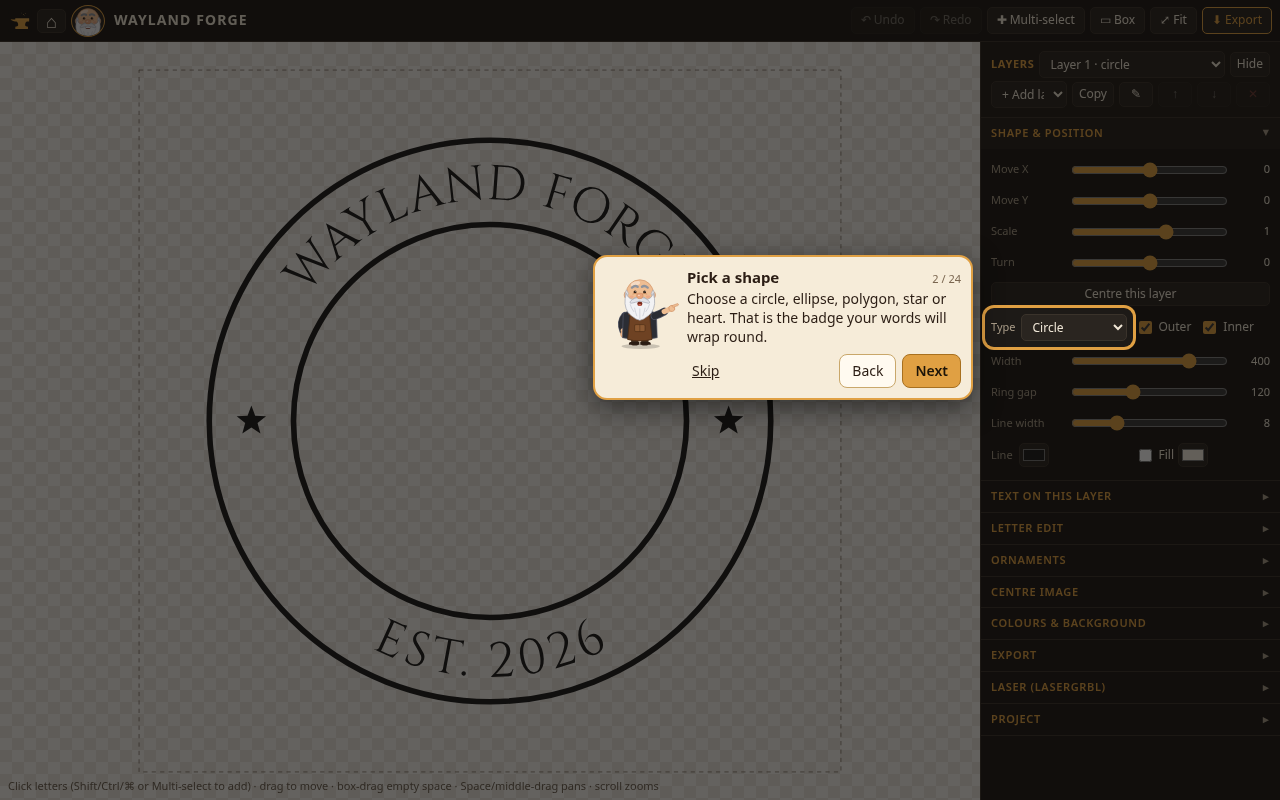
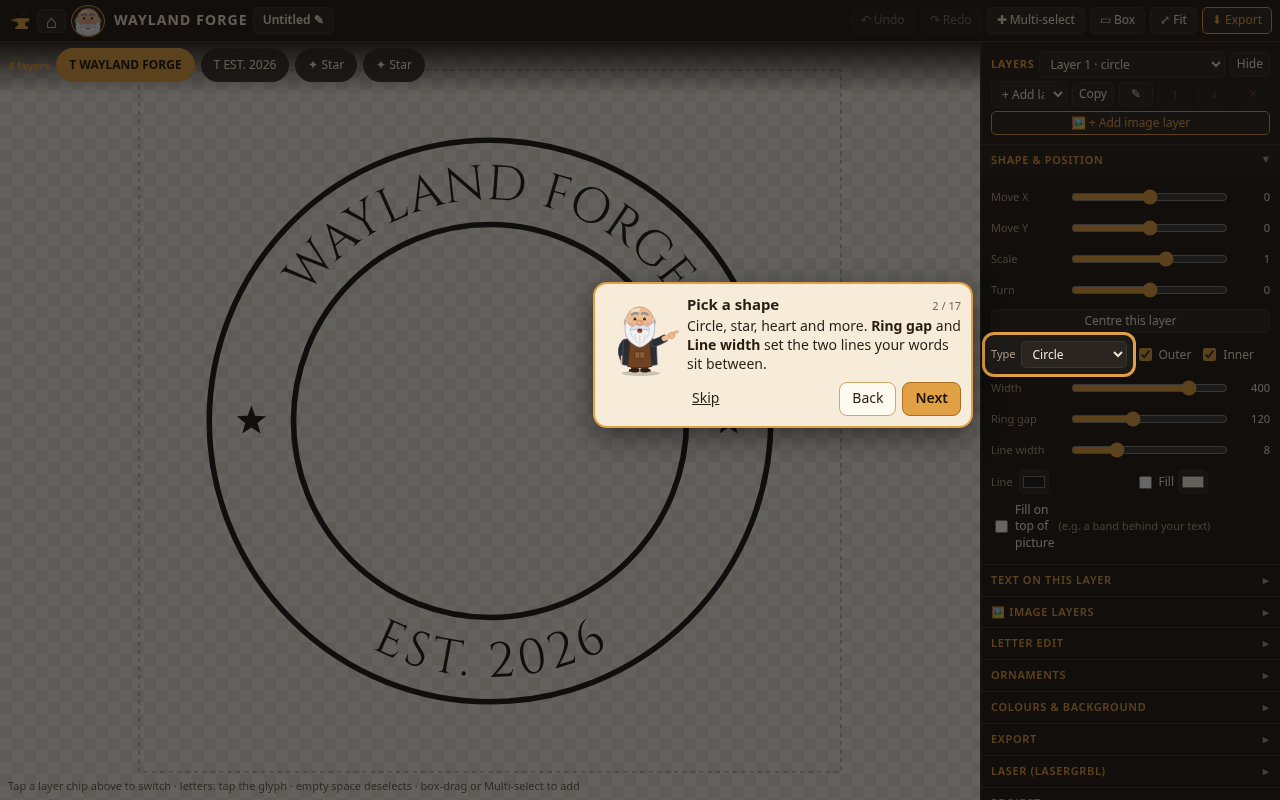
v45: shorter clearer tutorial (17 steps), neutral demo badge HAPPY BIRTHDAY / MAX, no personal names; laser unchanged

diff --git a/js/tour.js b/js/tour.js
@@ -16,30 +16,23 @@
   };
   // ---- the steps (plain English, short) ----
   const STEPS = [
-    { topic: 'start', pose: 'wave', title: "Hi, I'm Wayland!", text: "I'm the smith of this forge. I'll show you round in a minute or two. Tap <b>Next</b> to go on, or <b>Skip</b> any time." },
-    { topic: 'shape', sec: 'sec-shape', t: [lbl('[data-b="base.shape"]')], pose: 'point', title: 'Pick a shape', text: 'Choose a circle, ellipse, polygon, star or heart. That is the badge your words will wrap round.' },
-    { topic: 'shape', sec: 'sec-shape', t: [lbl('[data-b="base.gap"]')], pose: 'point', title: 'Ring and lines', text: '<b>Ring gap</b> is the space between the two lines where text sits. <b>Line width</b> makes the lines thicker or thinner (0 hides them).' },
-    { topic: 'layers', t: ['#layerBar'], pose: 'point', title: 'Layers: more shapes', text: 'Want a second badge shape? Use <b>+ Add layer</b> and pick a shape. Each layer has its own lines and text. Pick the layer here (or tap its line on the badge), then use <b>Move X/Y</b>, <b>Scale</b> and <b>Turn</b> in Shape &amp; position. Copy duplicates, ✎ renames, ↑↓ change which is in front, Hide hides it.' },
-    { topic: 'text', sec: 'sec-text', t: [lbl('[data-b="layer.text"]'), '#addLayer'], pose: 'point', title: 'Type your words', text: 'Type in the <b>Text</b> box and it bends round the badge straight away.' },
-    { topic: 'text', sec: 'sec-text', t: [lbl('[data-b="layer.side"]'), '#addLayer'], pose: 'point', title: 'Top and bottom text', text: 'Each line of text is a <b>layer</b>. Set <b>Side</b> to Top or Bottom. <b>+ Add</b> makes a new layer; <b>Duplicate to opposite side</b> copies it underneath.' },
-    { topic: 'text', sec: 'sec-text', t: [lbl('#fontSel'), '#addLayer'], pose: 'point', title: 'Fonts', text: 'Pick a <b>Font</b> and <b>Colour</b> for this layer. <b>Sits</b> puts the text between the lines, outside or inside.' },
-    { topic: 'text', sec: 'sec-text', t: [lbl('[data-b="layer.size"]'), '#addLayer'], pose: 'point', title: 'Size and spacing', text: '<b>Size</b> makes letters bigger, <b>Rotate</b> slides them round, <b>Spacing</b> spreads them out and <b>Lift</b> moves them in or out.' },
-    { topic: 'letters', t: [lettersBox, '#stage'], pose: 'point', try: 'letters', title: 'Try it: tap a letter', text: 'Tap (or click) any single letter on the badge to select it, then drag it to move it. Have a go, or just tap Next.' },
-    { topic: 'letters', t: ['#multiBtn'], pose: 'point', title: 'Select several letters', text: 'Turn on <b>Multi-select</b>, then each tap adds or removes a letter, even ones far apart. On a computer you can also hold Shift or Ctrl while clicking.' },
-    { topic: 'letters', sec: 'sec-letter', t: ['#multiBtn2'], pose: 'point', title: 'Letter edit', text: 'Here you can rotate, resize or nudge the selected letters with the arrows. <b>Reset</b> puts them back.' },
-    { topic: 'image', sec: 'sec-img', t: ['#sec-img .addpic2'], pose: 'point', title: 'Image layers', text: 'Tap <b>+ Add image layer</b> to add a picture, logo or map. Each image layer has its own Upload, Size, Style and Placement, just like the other layers.' },
-    { topic: 'image', sec: 'sec-img', t: ['#fitImg', '#sec-img .filebtn'], pose: 'hammer', title: 'Fit inside or Fill & clip', text: () => ((WF.state.images || []).some(i => i.src) ? '' : 'Once you have a picture you get these: ') + '<b>Fit inside line</b> shrinks the whole picture to sit inside the inner line. <b>Fill &amp; clip</b> fills the shape and trims the edges neatly.' },
-    { topic: 'image', sec: 'sec-img', t: [lbl('[data-b="img.mode"]'), '#sec-img .filebtn'], pose: 'hammer', title: 'Silhouette and vector trace', text: '<b>Style</b> can turn a photo into a solid <b>Silhouette</b>, or a <b>Vector trace</b> made of real paths that are great for cutting machines and print.' },
-    { topic: 'decor', sec: 'sec-orn', t: ['#addStar'], pose: 'point', title: 'Ornaments', text: 'Add stars, dots, holly or notes. Move them with the <b>Horizontal</b> and <b>Vertical</b> sliders, or tick <b>Follow path</b> to slide them round a line. <b>Mirror copy</b> makes a linked twin that moves with it (tap <b>Unlink</b> to separate).' },
-    { topic: 'decor', sec: 'sec-col', t: ['#sec-col > .body'], pose: 'point', title: 'Colours and background', text: 'Choose a see-through or solid background. Tap a swatch to colour the selected text or ornament, and save your own colours.' },
-    { topic: 'finish', t: ['#undoBtn'], pose: 'point', title: 'Oops? Undo!', text: 'Made a mistake? <b>Undo</b> steps back, <b>Redo</b> steps forward again. Nothing is lost.' },
-    { topic: 'finish', sec: 'sec-export', t: [lbl('#exPreset')], pose: 'point', title: 'Export for Printify', text: 'For Printify choose the <b>Printify 4500px</b> preset: it makes a big transparent PNG ready to upload.' },
-    { topic: 'finish', sec: 'sec-export', t: [lbl('#exFmt')], pose: 'point', title: 'PDF or SVG for print', text: 'For a printer or a cutting machine pick <b>PDF vector</b> or <b>SVG vector</b>: sharp at any size. Then tap <b>Export</b>.' },
-    { topic: 'laser', sec: 'sec-laser', t: ['#laserList'], pose: 'point', title: 'Laser jobs', text: 'Got a laser? Give each part a job here: <b>Etch</b> to engrave it, <b>Cut inside</b> or <b>Cut outside edge</b> to cut it, or <b>Image</b> for a photo. Tick <b>Show cuts</b> to see red and blue cut lines.' },
-    { topic: 'laser', sec: 'sec-laser', t: ['#laserBtn'], pose: 'point', title: 'Laser pack', text: 'Type the real size in mm, then tap <b>Download all steps</b>. You get one numbered file per step (e.g. IggyRocky 1 photo, 2 etch…) in your Downloads folder. In LaserGRBL use <b>File → Open File</b>, click Downloads, and run them one at a time in number order.' },
-    { topic: 'finish', sec: 'sec-proj', t: ['#saveToProjects'], pose: 'point', title: 'Save your project', text: 'Your work saves itself in this browser. <b>Save to Projects</b> gives it a name so you can open it again from <b>⌂ Home › Projects</b>. <b>Download file</b> makes a copy for another device.' },
-    { topic: 'install', t: ['#installBtn', '#helpBtn'], pose: 'thumbs', title: 'Install the app', text: () => vis($('installBtn')) ? 'Tap <b>Install</b> to put Wayland Forge on your home screen or desktop. It works offline too.' : 'To install: in Chrome tap the <b>⋮</b> menu and choose <b>Install app</b> (or <b>Add to Home screen</b>). On a computer, use the install icon in the address bar.' },
-    { topic: 'end', t: ['#helpBtn'], pose: 'thumbs', title: "That's the lot!", text: () => (vis($('helpBtn')) ? 'Tap my face up here any time to see the tour again or learn one topic.' : 'Open <b>Project → Help &amp; tutorial</b> any time to see the tour again.') + ' Happy forging!' },
+    { topic: 'start', pose: 'wave', title: "Hi, I'm Wayland!", text: "A quick tour, about a minute. Tap <b>Next</b> to go on, <b>Back</b> to go back, or <b>Skip</b> to leave any time." },
+    { topic: 'shape', sec: 'sec-shape', t: [lbl('[data-b="base.shape"]')], pose: 'point', title: 'Pick a shape', text: 'Circle, star, heart and more. <b>Ring gap</b> and <b>Line width</b> set the two lines your words sit between.' },
+    { topic: 'layers', t: ['#layerBar'], pose: 'point', title: 'Layers', text: 'Each shape, text, ornament and image is a layer. Tap one here to work on it. <b>+ Add layer</b> adds another shape.' },
+    { topic: 'text', sec: 'sec-text', t: [lbl('[data-b="layer.text"]'), '#addLayer'], pose: 'point', title: 'Type your words', text: 'Type in the <b>Text</b> box and it bends round the badge. <b>Side</b> puts it on the top or bottom.' },
+    { topic: 'text', sec: 'sec-text', t: [lbl('#fontSel'), '#addLayer'], pose: 'point', title: 'Font and size', text: 'Pick a <b>Font</b> and <b>Colour</b>. Below, <b>Size</b>, <b>Spacing</b> and <b>Rotate</b> fine-tune the letters.' },
+    { topic: 'letters', t: [lettersBox, '#stage'], pose: 'point', try: 'letters', title: 'Try it: tap a letter', text: 'Tap one letter on the badge to select it, then drag to move it. Or just tap Next.' },
+    { topic: 'letters', t: ['#multiBtn'], pose: 'point', title: 'Several letters', text: '<b>Multi-select</b> lets each tap add or remove a letter. <b>Letter edit</b> then rotates, resizes or nudges them; <b>Reset</b> puts them back.' },
+    { topic: 'image', sec: 'sec-img', t: ['#sec-img .addpic2'], pose: 'point', title: 'Add a picture', text: 'Tap <b>+ Add image layer</b> for a photo, logo or map.' },
+    { topic: 'image', sec: 'sec-img', t: ['#fitImg', '#sec-img .filebtn', '#sec-img .addpic2'], pose: 'hammer', title: 'Fit and style', text: '<b>Fit inside line</b> or <b>Fill &amp; clip</b> places it neatly. <b>Style</b> can make a <b>Silhouette</b> or <b>Vector trace</b>.' },
+    { topic: 'decor', sec: 'sec-orn', t: ['#addStar'], pose: 'point', title: 'Ornaments and colour', text: 'Add stars, dots, holly or notes, then move them with the sliders. The <b>Colours</b> section sets the background and swatches.' },
+    { topic: 'finish', t: ['#undoBtn'], pose: 'point', title: 'Undo', text: 'Made a mistake? <b>Undo</b> steps back, <b>Redo</b> steps forward.' },
+    { topic: 'finish', sec: 'sec-export', t: [lbl('#exPreset')], pose: 'point', title: 'Export', text: '<b>Printify 4500px</b> makes a big transparent PNG. For print or cutting machines pick <b>PDF</b> or <b>SVG</b>. Then tap <b>Export</b>.' },
+    { topic: 'laser', sec: 'sec-laser', t: ['#laserList'], pose: 'point', title: 'Laser jobs', text: 'Give each part a job: <b>Etch</b>, <b>Cut inside</b>, <b>Cut outside edge</b> or <b>Image</b>. <b>Show cuts</b> draws the cut lines.' },
+    { topic: 'laser', sec: 'sec-laser', t: ['#laserBtn'], pose: 'point', title: 'Laser files', text: 'Type the real size in mm and tap <b>Download all steps</b>. You get numbered files (e.g. <i>Max 1 photo</i>, <i>Max 2 etch</i>). Open them in LaserGRBL in number order.' },
+    { topic: 'finish', sec: 'sec-proj', t: ['#saveToProjects'], pose: 'point', title: 'Save', text: '<b>Save to Projects</b> keeps it for <b>⌂ Home › Projects</b>. <b>Download file</b> makes a copy for another device.' },
+    { topic: 'install', t: ['#installBtn', '#helpBtn'], pose: 'thumbs', title: 'Install the app', text: () => vis($('installBtn')) ? 'Tap <b>Install</b> to put Wayland Forge on your home screen. It works offline too.' : 'In Chrome tap <b>⋮</b> and choose <b>Install app</b> (or <b>Add to Home screen</b>).' },
+    { topic: 'end', t: ['#helpBtn'], pose: 'thumbs', title: "All done!", text: () => (vis($('helpBtn')) ? 'Tap my face up top any time to replay the tour or pick a topic.' : 'Open <b>Project → Help &amp; tutorial</b> to replay the tour.') + ' Happy forging!' },
   ];
   const TOPICS = [['shape', 'Shapes and lines'], ['layers', 'Layers (more shapes)'], ['text', 'Typing text, fonts and size'], ['letters', 'Selecting and moving letters'], ['image', 'Image layers, fit and trace'], ['decor', 'Ornaments and colours'], ['finish', 'Undo, export and save'], ['laser', 'Laser cutting and etching'], ['install', 'Installing the app']];
   // ---- DOM ----
@@ -107,7 +100,7 @@
   function openCard(kind) {
     const topics = TOPICS.map(([k, n]) => `<button data-topic="${k}">${n}</button>`).join('');
     card.innerHTML = `<div class="sm">${smith(kind === 'welcome' ? 'wave' : 'hammer')}</div><div class="tx">` + (kind === 'welcome'
-      ? `<b>Hi, I'm Wayland, the blacksmith!</b><p>New to the forge? Want a quick tour? It takes about two minutes.</p>
+      ? `<b>Hi, I'm Wayland, the blacksmith!</b><p>New to the forge? Want a quick tour? It takes about a minute.</p>
          <div class="row"><button class="accent" data-a="tour">Yes, show me round</button><button data-a="topics">Pick a topic</button><button data-a="close">Not now</button></div>
          <label class="chk"><input type="checkbox" data-a="never">Don't show this again</label>`
       : kind === 'topics' ? `<b>What would you like to learn?</b><div class="topics">${topics}</div><div class="row"><button data-a="tour" class="accent">Whole tour</button><button data-a="close">Close</button></div>`

diff --git a/app.js b/app.js
@@ -779,7 +779,7 @@ $('homeBack').onclick = () => homeView('main');
   const b = e.target.closest('[data-rk]'); if (!b) return;
   e.preventDefault(); selectRail(b.dataset.rk, b.dataset.rid);
 });
-$('homeTour').onclick = () => { if (homeOpen && !$('homeTour').dataset.keep) { archiveSession(); openState(defaults(), null); } window.dispatchEvent(new Event('wf-tutorial')); };
+$('homeTour').onclick = () => { if (homeOpen && !$('homeTour').dataset.keep) { archiveSession(); const d = defaults(); d.layers[0].text = 'HAPPY BIRTHDAY'; d.layers[1].text = 'MAX'; openState(d, null); } window.dispatchEvent(new Event('wf-tutorial')); };
 $('homeLoad').addEventListener('change', e => { $('loadProj').files = e.target.files; $('loadProj').dispatchEvent(new Event('change')); });
 $('homeBtn').onclick = () => showHome('main');
 function toast(t) { let el = $('wfToast'); if (!el) { el = document.createElement('div'); el.id = 'wfToast'; document.body.appendChild(el); } el.textContent = t; el.classList.add('on'); clearTimeout(el._t); el._t = setTimeout(() => el.classList.remove('on'), 2200); }
@@ -1407,8 +1407,8 @@ let deferred = null;
 window.addEventListener('beforeinstallprompt', e => { e.preventDefault(); deferred = e; $('installBtn').hidden = false; });
 $('installBtn').onclick = async () => { if (!deferred) return; deferred.prompt(); await deferred.userChoice; deferred = null; $('installBtn').hidden = true; };
 window.addEventListener('appinstalled', () => { $('installBtn').hidden = true; });
-const APP_VERSION = 'v44';
-const WHATS_NEW = "v44: Layer chips above the design – see every text, ornament and image layer and tap one to switch. Switching Projects now fully replaces the design (no need to close and reopen). Accidental letter taps are harder to trigger. Laser files are exactly the same as before.";
+const APP_VERSION = 'v45';
+const WHATS_NEW = "v45: A shorter, clearer tutorial (17 quick steps instead of 24) with a neutral demo badge, HAPPY BIRTHDAY / MAX, when started from Home. Laser files are unchanged.";
 $('homeNews') && ($('homeNews').textContent = WHATS_NEW);
 (() => { const w = $('homeNewsWrap'); if (!w) return; const k = 'wfNewsDismissed';
   const show = () => { w.hidden = !$('homeMain').hidden ? localStorage.getItem(k) === APP_VERSION : true; };

diff --git a/sw.js b/sw.js
@@ -1,5 +1,5 @@
 // Wayland Forge service worker: cache everything for offline use.
-const VERSION = 'wayland-forge-v44';
+const VERSION = 'wayland-forge-v45';
 const ASSETS = [
   './', './index.html', './style.css', './js/app.js', './js/blacksmith.js', './js/tour.js', './manifest.webmanifest',
   './vendor/opentype.min.js', './vendor/jspdf.umd.min.js', './vendor/svg2pdf.umd.min.js', './vendor/imagetracer.js',
